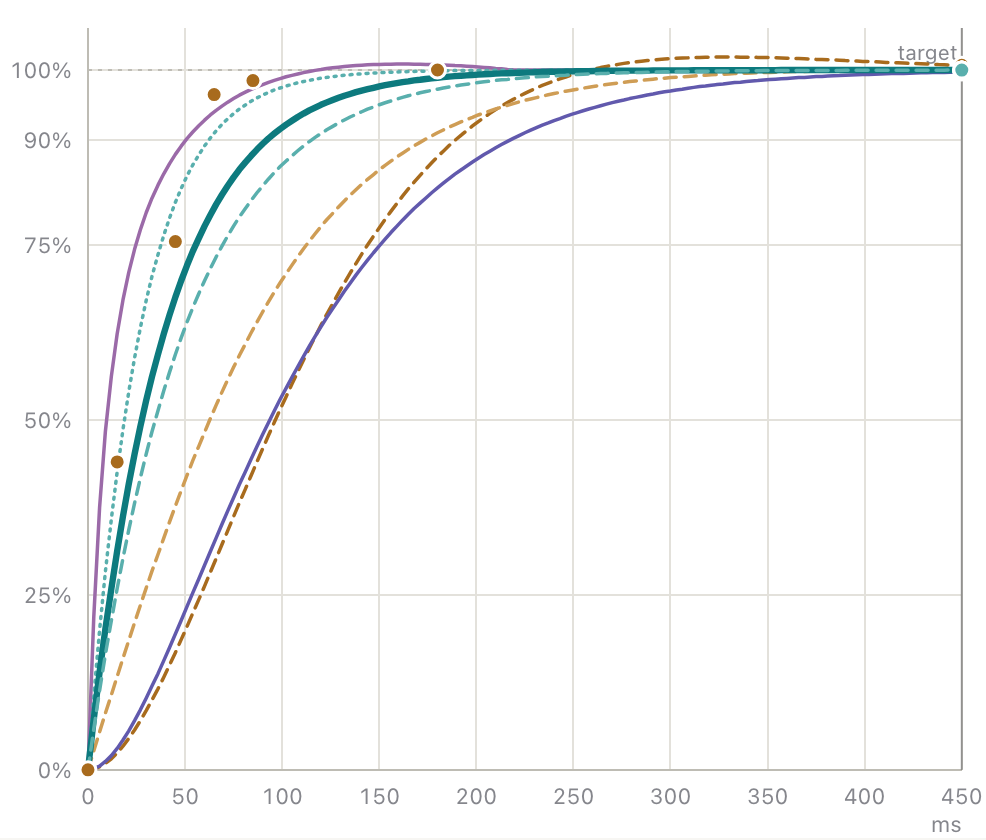
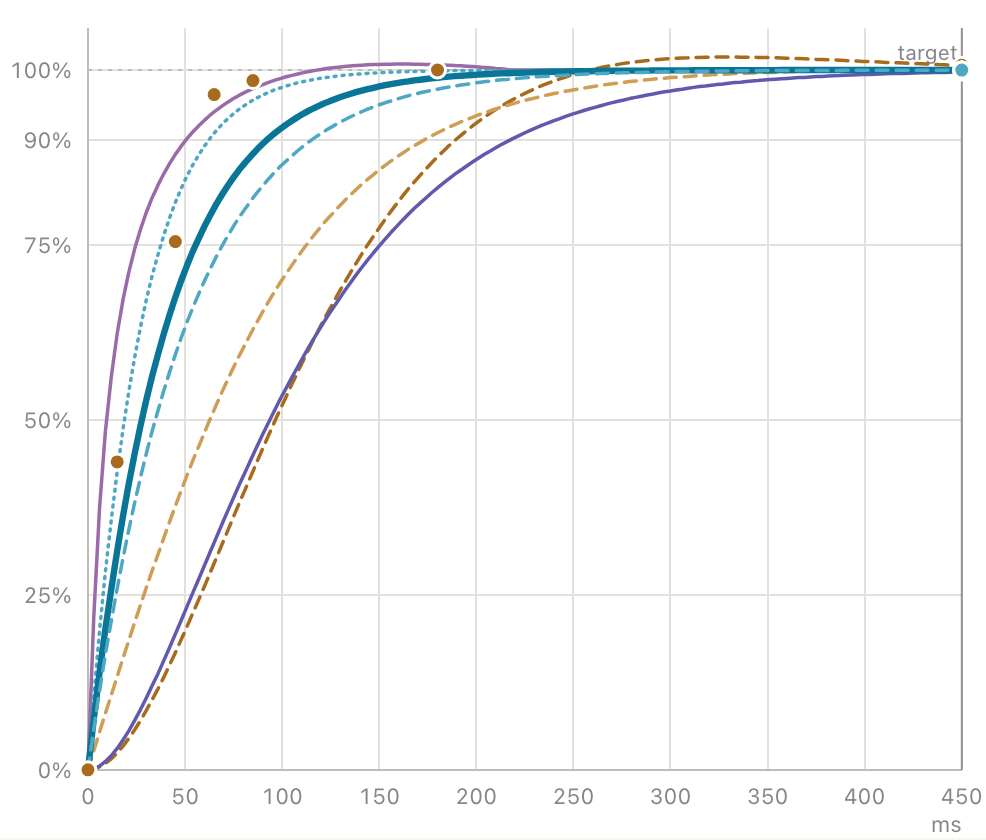
web: share images in the new accent and window chrome
Recaptured each demo and redrew public/og.png and public/og/<page>.png; the scripts' glow and accent follow the unified accent.

diff --git a/apps/web/scripts/render-og.py b/apps/web/scripts/render-og.py
@@ -14,7 +14,7 @@ from PIL import Image, ImageDraw, ImageFilter, ImageFont
 
 ROOT = os.path.normpath(os.path.join(os.path.dirname(__file__), ".."))
 W, H = 1200, 630
-INK, MUTED, FAINT, ACCENT = (27, 28, 31), (85, 86, 92), (133, 134, 140), (13, 122, 126)
+INK, MUTED, FAINT, ACCENT = (27, 28, 31), (85, 86, 92), (133, 134, 140), (10, 118, 151)
 # out file, small label, headline, sub line, capture (in scripts/og-src), picture box (width, height)
 CARDS = [
     ("public/og.png", "n-uf motion", "Motion that settles, and never overshoots", "Settle, reveal, held drags and a drag-intent model for TypeScript", "home.png", (560, 420)),
@@ -36,7 +36,7 @@ def font(size, wght):
 def background():
     yy, xx = np.mgrid[0:H, 0:W].astype(float) + 0.5
     a = np.clip(1 - np.sqrt(((xx - 900) / 520) ** 2 + ((yy - 315) / 420) ** 2), 0, 1) * 0.16   # a soft teal glow behind the picture
-    im = np.array([247, 246, 243], float)[None, None] * (1 - a[..., None]) + np.array([79, 193, 193], float)[None, None] * a[..., None]
+    im = np.array([247, 246, 243], float)[None, None] * (1 - a[..., None]) + np.array([92, 196, 224], float)[None, None] * a[..., None]
     return Image.fromarray(np.clip(im + 0.5, 0, 255).astype("uint8")).convert("RGBA")
 
 def wrap(text, f, width):

diff --git a/apps/web/scripts/render-og-pages.py b/apps/web/scripts/render-og-pages.py
@@ -26,7 +26,7 @@ def font(size, wght):
 def background():
     yy, xx = np.mgrid[0:H, 0:W].astype(float) + 0.5
     a = np.clip(1 - np.sqrt(((xx - 890) / 420) ** 2 + ((yy - 330) / 380) ** 2), 0, 1) * 0.16   # a soft teal glow behind the picture
-    im = np.array([247, 246, 243], float)[None, None] * (1 - a[..., None]) + np.array([79, 193, 193], float)[None, None] * a[..., None]
+    im = np.array([247, 246, 243], float)[None, None] * (1 - a[..., None]) + np.array([92, 196, 224], float)[None, None] * a[..., None]
     return Image.fromarray(np.clip(im + 0.5, 0, 255).astype("uint8")).convert("RGBA")
 
 KEEP_TOGETHER = ["@n-uf/motion"]   # names a line break would split
@@ -83,7 +83,7 @@ for md in sorted(glob.glob(os.path.join(ROOT, "src/content/use-cases/*.md")) + g
     for line in lines:
         d.text((64, y), line, font=f, fill=(27, 28, 31), anchor="ls")
         y += round(size * 1.18)
-    d.text((64, 578), "motion.n-uf.com", font=font(20, 550), fill=(13, 122, 126), anchor="ls")
+    d.text((64, 578), "motion.n-uf.com", font=font(20, 550), fill=(10, 118, 151), anchor="ls")
     # right: the page's first picture, with a faint edge
     if shot:
         pic = picture(os.path.join(ROOT, "public/img/guides", shot.group(1)), 500, 470)
